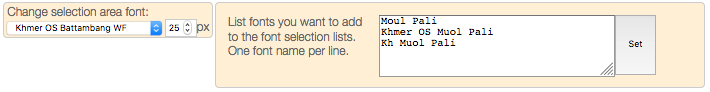
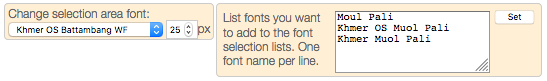
Improved styling for local font list control.

diff --git a/shared22/pagetemplate.js b/shared22/pagetemplate.js
@@ -251,9 +251,10 @@ out = `
 	<input name="uiFontSize" id="uiFontSize"  type="number" onchange="setUIFontSize(document.getElementById('uiFontSize').value); return false;" value=""  style="width: 30px;" />px</div>
 
 
-<div id="userFontMgt" class="control" style="width: 50%; height: 5em;padding: 1em; display: flex; flex-direction: row; flex-wrap: nowrap;">
-<span style="padding-right: 1em; width: 30%; text-align:start;">List fonts you want to add to the font selection lists. One font name per line.</span><br>
-<textarea id="fontManagementList" style="width: 50%; height: 100%;"></textarea> <button onclick="manageUserFonts(document.getElementById('fontManagementList').value)">Set</button>
+<div id="userFontMgt" class="control" style="width: 26em; height: 5em;padding: .5em; display: flex; flex-direction: row; flex-wrap: nowrap; align-items: start;">
+<span style="padding-right: 1em; flex:4; text-align:start;">List fonts you want to add to the font selection lists. One font name per line.</span>
+<textarea id="fontManagementList" style="flex:6; height: 100%;"></textarea>
+<button style="flex:.5; margin-left:.5em;" onclick="manageUserFonts(document.getElementById('fontManagementList').value)">Set</button>
 </div>
 
 <a class="interactiveHelpButton" href="help/#manage_fonts" target="_help" title="Help with font management controls."><img alt="help" src="../images/help.png"/></a>
